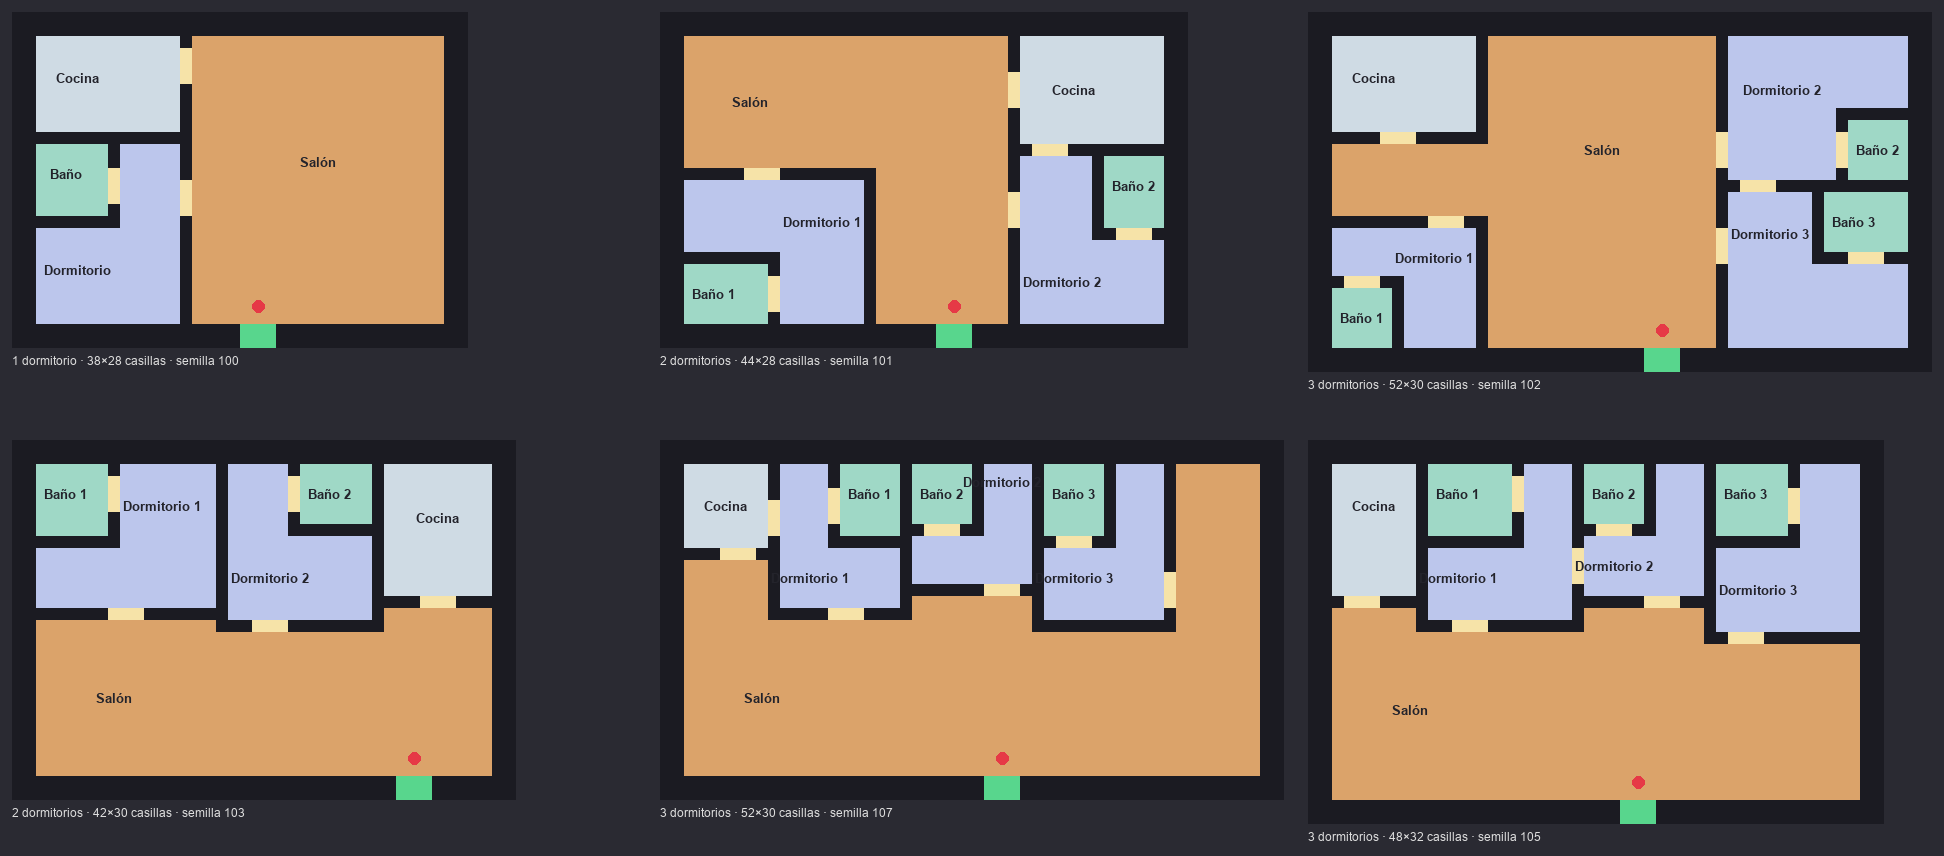
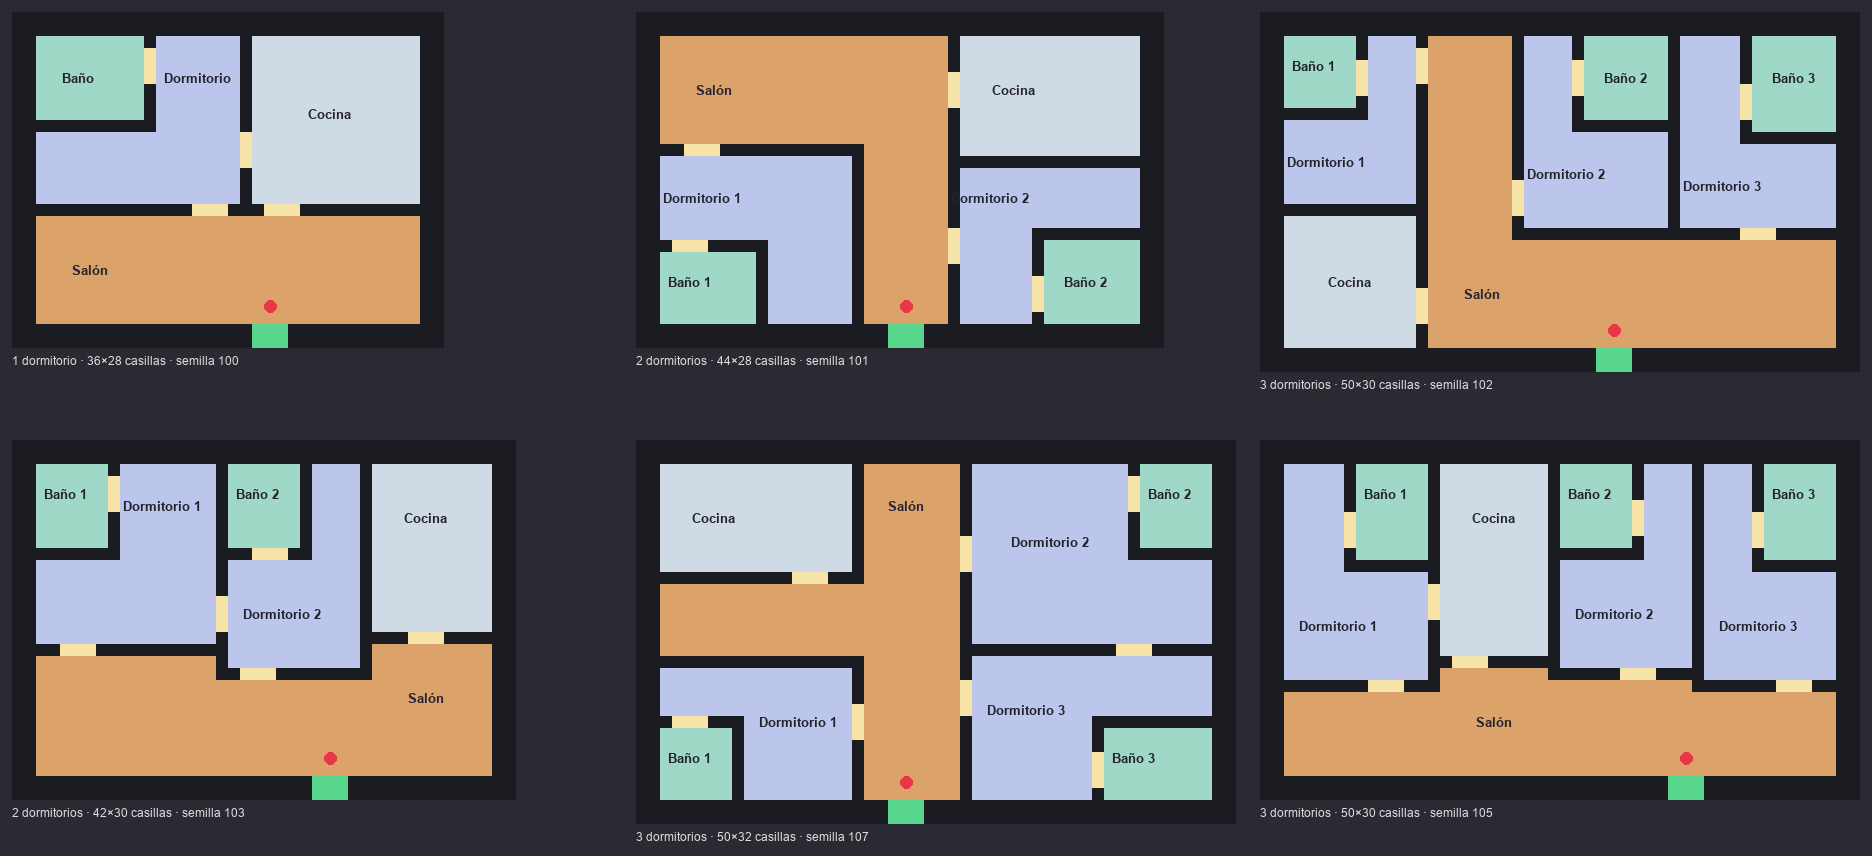
Apartamentos: cocina, dormitorios y baños más grandes; el salón, un tercio
El salón se llevaba la mitad del piso o más. Ahora las habitaciones crecen
todo lo que el salón deja y este se queda entre el 22 % y el 42 %.

diff --git a/src/apartment.js b/src/apartment.js
@@ -24,13 +24,15 @@ const EDGE = 2;           // grosor del muro exterior, en casillas (64 unidades)
 const MIN = 7;            // lado mínimo de un trozo de salón, en casillas
 const DOOR = 3;           // ancho de las puertas, en casillas (96 unidades)
 const MAX_LONG = 2.2;     // cuántas veces más larga que ancha puede ser una habitación
-const HALL = 8;           // fondo mínimo del salón delante de una habitación, en casillas
+const HALL = 7;           // fondo mínimo del salón delante de una habitación, en casillas
 const GAP = 6;            // hueco mínimo de salón entre dos habitaciones del mismo lateral
 const WIDE = 5;           // el salón no tiene pasos ni rincones de menos de 5 casillas
-const SALON = 0.3;        // parte del apartamento que, como poco, es salón
+const SALON = [0.22, 0.42]; // parte del apartamento que es salón: como poco y como mucho
 
 // Lado mínimo y máximo de cada habitación, en casillas (al dormitorio le tiene que caber el baño)
-const SIZE = { cocina: { min: 7, max: 12 }, dormitorio: { min: 10, max: 15 } };
+const SIZE = { cocina: { min: 9, max: 16 }, dormitorio: { min: 11, max: 20 } };
+// Medidas del baño: [mínimo, máximo] de ancho y de fondo
+const BATH = { w: [6, 9], h: [6, 8] };
 
 // Para qué sirve cada habitación. `style` es el estilo de suelo y muebles (APARTMENT_STYLES de config.js).
 export const USES = {
@@ -66,7 +68,7 @@ const shuffle = (rng, arr) => {
 //   entrance    { c, r, w, h, side } hueco de la puerta de entrada
 //   spawn       { x, y } dónde aparece el conserje al entrar
 export function makeApartment({ seed = Math.floor(Math.random() * 1e9), bedrooms, boss = false, side = 'down' } = {}) {
-  for (let attempt = 0; attempt < 400; attempt++) {
+  for (let attempt = 0; attempt < 1500; attempt++) {
     const rng = mulberry32(seed + attempt * 7919);
     const apt = tryApartment(rng, boss ? 0 : bedrooms || randInt(rng, 1, 3), boss);
     if (!apt || checkApartment(apt).length) continue;
@@ -92,12 +94,12 @@ function layout(rng, bedrooms, iw, ih) {
   if (mid < 0) return null;
   const kinds = [left, ...Array(mid).fill('top'), right];
   // a veces el salón llega hasta el fondo entre dos habitaciones (y siempre, si no le queda sitio delante)
-  if (rng() < 0.3 || !kinds.some((k) => k === 'top' || k === 'none')) kinds.splice(randInt(rng, 1, kinds.length - 1), 0, 'none');
+  if (rng() < 0.12 || !kinds.some((k) => k === 'top' || k === 'none')) kinds.splice(randInt(rng, 1, kinds.length - 1), 0, 'none');
   const strips = kinds
     .filter((k, i) => !(k === 'none' && kinds[i - 1] === 'none'))
     .map((kind) => ({ kind, uses: uses.splice(0, HOLDS[kind]) }));
 
-  // Anchos: el mínimo de cada franja y lo que sobra se reparte al azar
+  // Anchos: el mínimo de cada franja; lo que sobra se reparte al azar, primero entre las que tienen habitación
   let spare = iw - (strips.length - 1);
   for (const s of strips) {
     s.w = s.uses.length ? Math.max(...s.uses.map((u) => SIZE[u].min)) : MIN;
@@ -106,12 +108,13 @@ function layout(rng, bedrooms, iw, ih) {
   }
   if (spare < 0) return null;
   for (; spare > 0; spare--) {
-    const can = strips.filter((s) => s.w < s.max);
+    const rooms = strips.filter((s) => s.uses.length && s.w < s.max);
+    const can = rooms.length ? rooms : strips.filter((s) => s.w < s.max);
     if (!can.length) return null;
     pick(rng, can).w++;
   }
 
-  // Fondos: entre lo que pide cada habitación y lo que deja el salón
+  // Fondos: lo más que deja el salón, o poco menos
   const span = (use, w) => [Math.max(SIZE[use].min, Math.ceil(w / MAX_LONG)), Math.min(SIZE[use].max, Math.floor(w * MAX_LONG))];
   const out = [];
   let c = 0;
@@ -121,12 +124,12 @@ function layout(rng, bedrooms, iw, ih) {
       const [lo, hi] = span(a, s.w);
       const max = Math.min(hi, ih - 1 - (s.kind === 'top' ? HALL : MIN));
       if (max < lo) return null;
-      const h = randInt(rng, lo, max);
+      const h = randInt(rng, Math.max(lo, max - 3), max);
       out.push({ use: a, c0: c, r0: s.kind === 'top' ? 0 : ih - h, w: s.w, h });
     } else if (s.kind === 'both') {
       const [lo1, hi1] = span(a, s.w), [lo2, hi2] = span(b, s.w);
       let h1, h2;
-      if (rng() < 0.35 && ih - lo1 - lo2 - 2 >= GAP) {
+      if (rng() < 0.2 && ih - lo1 - lo2 - 2 >= GAP) {
         // separadas, con un trozo de salón entre las dos
         h1 = lo1 + randInt(rng, 0, Math.min(hi1 - lo1, ih - lo1 - lo2 - 2 - GAP));
         h2 = lo2 + randInt(rng, 0, Math.min(hi2 - lo2, ih - h1 - lo2 - 2 - GAP));
@@ -144,7 +147,7 @@ function layout(rng, bedrooms, iw, ih) {
   return out;
 }
 
-// ¿Es el salón una sola pieza, sin pasos ni rincones estrechos, y lo bastante grande?
+// ¿Es el salón una sola pieza, sin pasos ni rincones estrechos, y ni muy pequeño ni enorme?
 function salonOk(owner, cols, rows, id) {
   const is = (c, r) => owner[r * cols + c] === id;
   // cada casilla tiene que caber dentro de algún cuadrado de WIDE × WIDE que sea todo salón
@@ -162,7 +165,8 @@ function salonOk(owner, cols, rows, id) {
     if (first < 0) first = i;
     total++;
   }
-  if (total < SALON * (cols - EDGE * 2) * (rows - EDGE * 2)) return false;
+  const share = total / ((cols - EDGE * 2) * (rows - EDGE * 2));
+  if (share < SALON[0] || share > SALON[1]) return false;
   // y se llega andando de cualquier punto a cualquier otro
   const seen = new Uint8Array(cols * rows);
   const stack = [first];
@@ -206,7 +210,8 @@ function tryApartment(rng, bedrooms, boss) {
 
     // 3. Un baño en cada dormitorio, recortado en la esquina que menos da al salón
     for (const host of rooms.filter((rm) => rm.use === 'dormitorio')) {
-      const bw = randInt(rng, 5, Math.min(7, host.w - 5)), bh = randInt(rng, 5, Math.min(6, host.h - 5));
+      // al dormitorio le quedan al menos 4 casillas a cada lado del baño
+      const bw = randInt(rng, BATH.w[0], Math.min(BATH.w[1], host.w - 5)), bh = randInt(rng, BATH.h[0], Math.min(BATH.h[1], host.h - 5));
       const corners = shuffle(rng, [[0, 0], [1, 0], [0, 1], [1, 1]]).map(([right, low]) => {
         const c0 = right ? host.c0 + host.w - bw : host.c0, r0 = low ? host.r0 + host.h - bh : host.r0;
         let near = 0; // casillas de salón al otro lado del tabique

diff --git a/docs/MAPA.md b/docs/MAPA.md
@@ -66,10 +66,11 @@ Las otras tres son dos apartamentos y el del mini jefe. Dentro hay:
   habitaciones. A cada dormitorio se le recorta el baño en la esquina que menos da al salón. Después se abren
   las puertas: del salón a cada habitación, de cada dormitorio a su baño y, la mitad de las veces, una más
   entre dos habitaciones vecinas.
-- **Reglas:** la cocina mide entre 7 y 12 casillas de lado y los dormitorios entre 10 y 15 (con su baño de 5 a
-  7 dentro); ninguna es más de 2,2 veces más larga que ancha. El salón ocupa al menos el 30 % del apartamento
-  (lo normal es la mitad), no tiene pasos de menos de 5 casillas y delante de cada habitación deja 8 de fondo.
-  Las puertas miden 3 casillas (96 unidades), como las de siempre.
+- **Reglas:** la cocina mide entre 9 y 16 casillas de lado y los dormitorios entre 11 y 20, con su baño de 6 a
+  9 dentro; ninguna es más de 2,2 veces más larga que ancha. **El salón se queda con un tercio del apartamento**
+  (entre el 22 % y el 42 %; de media, el 35 %): en la primera versión se llevaba la mitad o más y el dueño lo
+  vio "gigantesco", así que las habitaciones crecen todo lo que el salón deja. El salón no tiene pasos de menos
+  de 5 casillas y delante de cada habitación deja 7 de fondo. Las puertas miden 3 casillas (96 unidades).
 - **Tamaños:** entre 36×24 y 52×32 casillas (de 1.152×768 a 1.664×1.024 unidades) según las habitaciones. El
   del jefe mide 44×30. En pantalla se ven unas 24×13 casillas. El dueño dio el tamaño por bueno ("luego vemos
   si reducimos o no").
